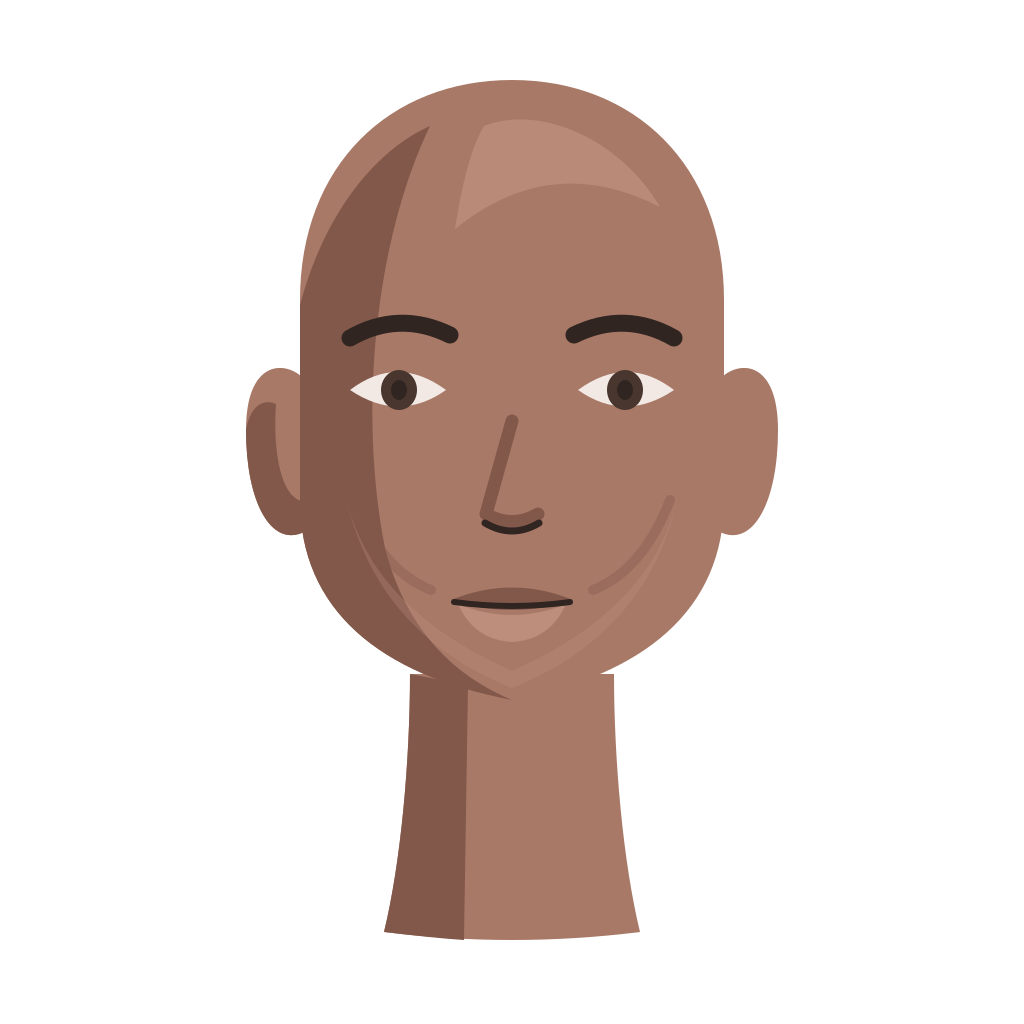
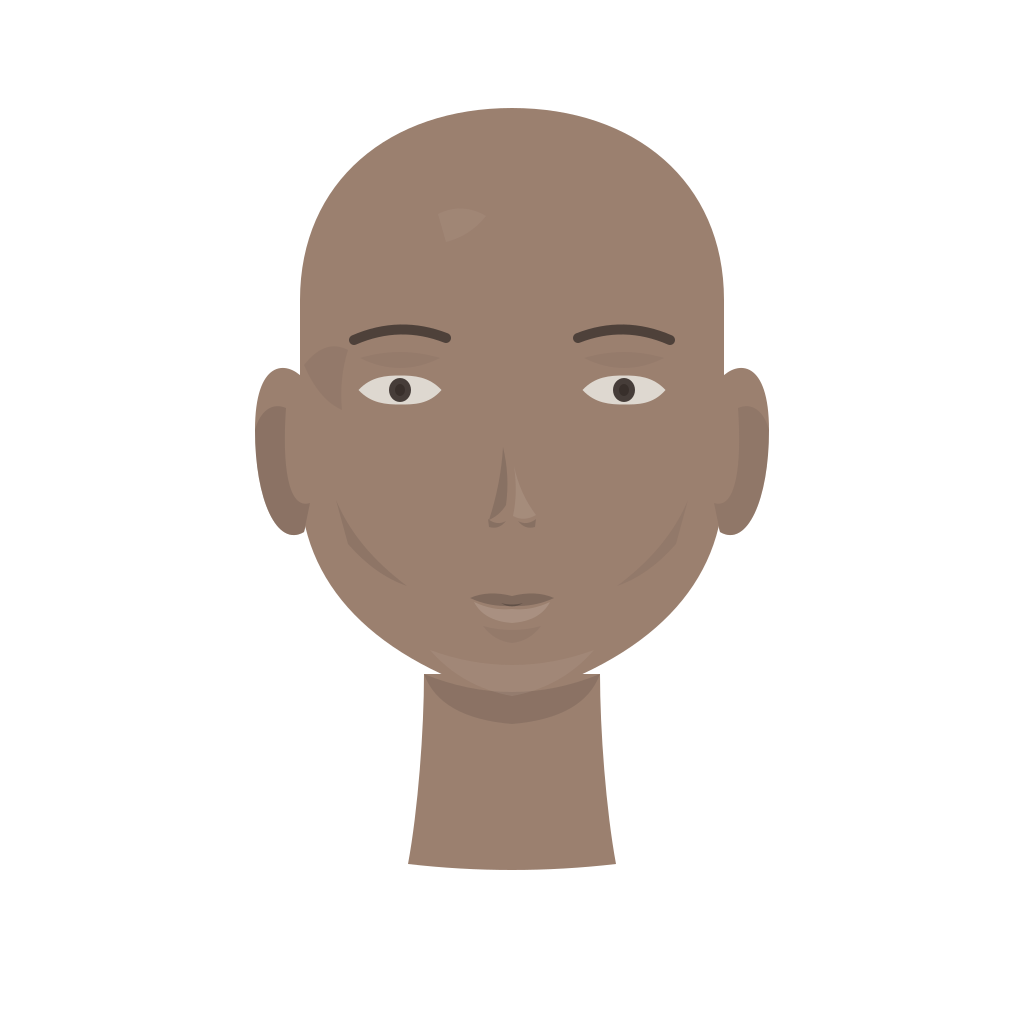
feat: finalize Parsona tone 03 MVP bases

diff --git a/parsona/v2/tone03Assets.test.ts b/parsona/v2/tone03Assets.test.ts
@@ -128,7 +128,7 @@ describe('canonical Parsona tone_03 production bases', () => {
     expect(geometry.canvas).toEqual({ width: 1024, height: 1024 });
     expect(geometry.sharedAnchors).toEqual({
       centerX: 512,
-      skullTop: 80,
+      skullTop: 108,
       skullLeft: 300,
       skullRight: 724,
       eyeLine: 390,
@@ -137,10 +137,42 @@ describe('canonical Parsona tone_03 production bases', () => {
       chinLine: 700,
       earTop: 360,
       earBottom: 548,
+      earOuterLeft: 255,
+      earOuterRight: 769,
       neckCenter: 512,
-      neckBottomLeft: 384,
-      neckBottomRight: 640,
-      terminationLine: 940,
+      neckBottomLeft: 408,
+      neckBottomRight: 616,
+      terminationLine: 870,
+    });
+    expect(geometry.palette.skin).toEqual({
+      primary: '#9B806F',
+      shadow: '#746055',
+      highlight: '#B6A091',
+    });
+    expect(geometry.revisionMetrics).toEqual({
+      eye: {
+        previousWidth: 76,
+        width: 83,
+        widthIncreasePercent: 9.2,
+        previousHeight: 27,
+        height: 29,
+        heightIncreasePercent: 7.4,
+        irisRadiusX: 11,
+        irisRadiusY: 12,
+      },
+      ear: {
+        previousWidth: 76,
+        width: 67,
+        widthReductionPercent: 11.8,
+      },
+      neck: {
+        previousVisibleLength: 240,
+        visibleLength: 170,
+        lengthReductionPercent: 29.2,
+        previousBottomWidth: 256,
+        bottomWidth: 208,
+        widthReductionPercent: 18.8,
+      },
     });
     expect(geometry.measuredDifferences).toEqual({
       outerSkullBounds: 0,
@@ -162,7 +194,7 @@ describe('canonical Parsona tone_03 production bases', () => {
       height: 1024,
       hasTransparency: true,
       hasVisiblePixels: true,
-      alphaBounds: { left: 246, top: 80, right: 777, bottom: 939 },
+      alphaBounds: { left: 255, top: 108, right: 768, bottom: 869 },
     });
   });
 

diff --git a/views/ParsonaV2LabView.tsx b/views/ParsonaV2LabView.tsx
@@ -74,10 +74,10 @@ function ReviewGuides({
       )}
       {anchors && (
         <>
-          <span className="absolute left-0 right-0 border-t border-amber-300/70" style={{ top: '63.1%' }} />
+          <span className="absolute left-0 right-0 border-t border-amber-300/70" style={{ top: '49.8%' }} />
+          <span className="absolute left-0 right-0 border-t border-amber-300/70" style={{ top: '58.6%' }} />
           <span className="absolute left-0 right-0 border-t border-amber-300/70" style={{ top: '68.4%' }} />
-          <span className="absolute left-0 right-0 border-t border-amber-300/70" style={{ top: '75.2%' }} />
-          <span className="absolute bottom-[12%] left-[10.2%] right-[10.2%] border-t border-amber-300/70" />
+          <span className="absolute left-0 right-0 border-t border-amber-300/70" style={{ top: '85%' }} />
         </>
       )}
       {safeZone && (
@@ -400,7 +400,7 @@ export function ParsonaV2LabView() {
                   ))}
                 </div>
                 <p className="mt-3 text-[10px] text-slate-400">
-                  Shared canvas: 1024×1024 · visible alpha bounds: x 246–777, y 80–939.
+                   Shared canvas: 1024×1024 · visible alpha bounds: x 255–768, y 108–869.
                 </p>
               </div>
 

diff --git a/parsona/v2/integration.test.ts b/parsona/v2/integration.test.ts
@@ -22,7 +22,7 @@ describe('Parsona v2 dormant integration boundary', () => {
     expect(lab).toContain("'overlay'");
     expect(lab).toContain("'blink'");
     expect(lab).toContain('Masculine at 50% opacity over Feminine');
-    expect(lab).toContain('visible alpha bounds: x 246–777, y 80–939');
+    expect(lab).toContain('visible alpha bounds: x 255–768, y 108–869');
     expect(lab).toContain("slot.skinToneId === 'tone_03'");
   });
 

diff --git a/HANDOFF.md b/HANDOFF.md
@@ -16,7 +16,7 @@ Updated: 2026-07-24
 
 ## Current objective
 
-Continue the professional Parsona v2 artwork intake defined in `docs/PARSONA_V2_ARTWORK_SPEC.md`. The canonical Feminine and Masculine `tone_03` bases are now present for review; the remaining layers must be commissioned and approved before enabling the dormant public route.
+Review the uncommitted revised Feminine and Masculine `tone_03` bases against the approved Parsona boards. Do not derive additional tones until this revised canonical pair receives explicit artwork approval.
 
 ## Completed Parsona foundation
 
@@ -43,9 +43,12 @@ Continue the professional Parsona v2 artwork intake defined in `docs/PARSONA_V2_
 - The existing DEV-only `?qa=parsona-v2-lab` now includes a Batch 1 intake workspace for the fixed background and ten base/skin layers. It probes exact manifest paths, reports loaded/missing/invalid metadata, and provides checkerboard/white/black/navy surfaces, alignment/anchor/safe-zone/alpha-boundary overlays, individual and side-by-side views, all-tone rows, and 180/120/96/48/40 px previews.
 - The fixed background is positively validated as opaque; every other compositing layer, including all ten Batch 1 base layers, requires transparency. No manifest status or production artwork was added.
 - Canonical `tone_03` base production is deterministic and vector-first: `artwork/parsona-v2/source/tone_03.geometry.json` defines the shared 1024×1024 anchors and `scripts/build-parsona-tone03.mjs` renders the two controlled variants. Both variants use the same skull, eyes, nose, ears, neck, crop, and alpha silhouette; only jaw/cheek contour, brow, lower-face treatment, and restrained lip geometry differ.
-- The Feminine and Masculine `tone_03` PNG masters are tracked under `artwork/parsona-v2/masters/bases/`; matching optimized WebPs are tracked at their exact manifest paths under `public/parsona-v2/bases/`. Both runtime files are approximately 25 KiB, contain transparency, and share visible alpha pixel bounds x 246–777 / y 80–939.
+- The Feminine and Masculine `tone_03` PNG masters are tracked under `artwork/parsona-v2/masters/bases/`; matching optimized WebPs are tracked at their exact manifest paths under `public/parsona-v2/bases/`. The runtime files are 18,460 and 18,296 bytes, contain transparency, and share visible alpha pixel bounds x 255–768 / y 108–869.
 - The DEV lab now includes 50% overlay and user-controlled rapid-blink comparisons in addition to side-by-side review. The overlay measures 0 px difference for outer skull bounds, eye line, chin, ears, neck anchor, and lower termination. Direct review at 48 px and 40 px retained the silhouette and primary facial features.
 - No other production portrait files were added. The other eight Batch 1 base/skin slots and the fixed navy background remain explicitly missing; all manifest statuses remain pending.
+- The final uncommitted controlled `tone_03` revision preserves the neutral, outline-free, short-neck redesign while moving to its intended visual midpoint: skull top y80→108 (9.0% less upper-skull distance above the fixed eye line), ears 76→67 px wide (11.8% reduction), and eyes 76×27→83×29 px (9.2%/7.4% increase). Restrained local under-brow, nose, cheek, lip, and chin fill planes restore definition without gradients or facial contour strokes.
+- Skin roles remain neutral `#9B806F` / `#746055` / `#B6A091`; feature colors are `#382F2B`, muted eye white `#DED8D0`, and iris `#463D39`.
+- Revised shared anchors remain identical: eyes y390, nose y510, mouth y600, chin y700, neck center x512, lower neck x408–616, termination y870. Feminine and Masculine skull/feature positions remain stationary; only approved cheek/jaw, brow-weight, lower-face, and lip geometry differ.
 
 ## Quality gates
 
@@ -56,6 +59,23 @@ Canonical `tone_03` base verification on 2026-07-24:
 - `npm.cmd run build`: passed, 1,686 modules transformed; the DEV lab route, lab title, overlay copy, measurement workspace, and component name were absent from production JavaScript.
 - `npm.cmd run test:rules`: passed, 1 file and 93 Firestore Rules tests.
 - All 1,250 v2 combinations remain unique and valid; invalid or incomplete v2 input still resolves to deterministic v1.
+
+Uncommitted `tone_03` redesign verification on 2026-07-24:
+
+- Focused artwork and dormant-integration tests: passed, 2 files and 10 tests.
+- `npx.cmd tsc --noEmit`: passed.
+- `npm.cmd test`: passed, 24 files and 764 tests.
+- `npm.cmd run build`: passed, 1,686 modules transformed; v2 remains disabled and the DEV lab remains excluded from production JavaScript.
+- `npm.cmd run test:rules`: passed, 1 file and 93 Firestore Rules tests.
+
+Final controlled `tone_03` revision verification on 2026-07-24:
+
+- Focused artwork and dormant-integration tests: passed, 2 files and 10 tests.
+- `npx.cmd tsc --noEmit`: passed.
+- `npm.cmd test`: passed, 24 files and 764 tests.
+- `npm.cmd run build`: passed, 1,686 modules transformed; v2 remains disabled and the DEV lab remains excluded from production JavaScript.
+- `npm.cmd run test:rules`: passed, 1 file and 93 Firestore Rules tests.
+- All 1,250 v2 combinations remain structurally valid.
 
 Fresh repository-cleanup checkpoint results on 2026-07-23:
 
@@ -75,7 +95,7 @@ Fresh repository-cleanup checkpoint results on 2026-07-23:
 
 ## Leading recommendation and exact next task
 
-Leading next milestone: complete Batch 1 with the fixed navy background and the eight remaining `tone_01`, `tone_02`, `tone_04`, and `tone_05` Feminine/Masculine bases, preserving the canonical `tone_03` anchors and alpha silhouette. Review all 11 Batch 1 slots in `?qa=parsona-v2-lab`, then proceed to hair, accessory, and top batches without changing manifest statuses before explicit approval.
+Leading next milestone: obtain explicit visual approval or revision notes for the revised `tone_03` review sheet. Only after approval, commit this canonical pair and derive the fixed navy background plus `tone_01`, `tone_02`, `tone_04`, and `tone_05` while preserving the revised anchors.
 
 Required filename families:
 

diff --git a/docs/PARSONA_V2_ARTWORK_SPEC.md b/docs/PARSONA_V2_ARTWORK_SPEC.md
@@ -13,7 +13,9 @@ Parsona v2 uses reusable transparent layers, not flattened portraits. The 49 pro
 - Visible crop: a circle centered at **(512, 512)** with radius **512**. Art outside it is discarded.
 - Critical safe zone: circle centered at **(512, 512)** with radius **440**. Eyes, nose, mouth, jaw, glasses, and distinguishing hair detail must remain inside it.
 - Optical center: **x = 512**. Keep the shared subtle three-quarter orientation consistent; do not mirror layers independently.
-- Eye line: **y = 390 ± 8 px**. Chin: **y = 646 ± 8 px**. Neck/garment seam: **y = 700 ± 10 px**.
+- Canonical base anchors: eye line **y = 390 px**, nose line **y = 510 px**, mouth line **y = 600 px**, and chin **y = 700 px**.
+- Canonical bald-base bounds: shared skull top **y = 108 px**, skull sides **x = 300–724**, and outer ear bounds **x = 255–769** with ear anchors **y = 360–548 px**.
+- Canonical base neck: centered at **x = 512**, lower width **208 px** (`x = 408–616`), with a shallow termination at **y = 870 px**. Feminine and Masculine variants must match these anchors exactly.
 - Hair may reach **y = 48 px** only near the horizontal center. Keep important top detail below **y = 72 px**.
 - Shoulder high points: **y = 770 ± 12 px**. At **y = 900 px**, shoulders/torso must span at least **x = 104–920** and continue through the bottom edge.
 - No essential feature may touch the outer 24 px of the square canvas.
@@ -61,11 +63,11 @@ The five IDs form one consistent tonal ramp, available identically to both base 
 |---|---|---|
 | `tone_01` | `#F2C6A0` | Lightest tone; preserve warm-neutral depth without washing highlights to white. |
 | `tone_02` | `#D99A6C` | Light-medium tone; keep the same highlight/shadow separation as Tone 1. |
-| `tone_03` | `#B86F47` | Medium tone and default; neutral-warm reference for lighting balance. |
+| `tone_03` | `#9B806F` | Medium tone and default; balanced neutral reference without orange, copper, pink, or gray cast. |
 | `tone_04` | `#824A35` | Deep tone; retain readable midtones at 40 px without gray shadows. |
 | `tone_05` | `#4B2A22` | Deepest tone; preserve facial structure without crushing shadows to black. |
 
-References are color targets, not demographic labels. Highlights may move up to 10% lighter and shadows up to 14% darker in perceived lightness, with the same fixed upper-left key light across every asset.
+References are color targets, not demographic labels. Canonical `tone_03` uses primary `#9B806F`, shadow `#746055`, and highlight `#B6A091`. Highlights and shadows use the same fixed upper-left key light across every asset.
 
 ### Hairstyles
 
